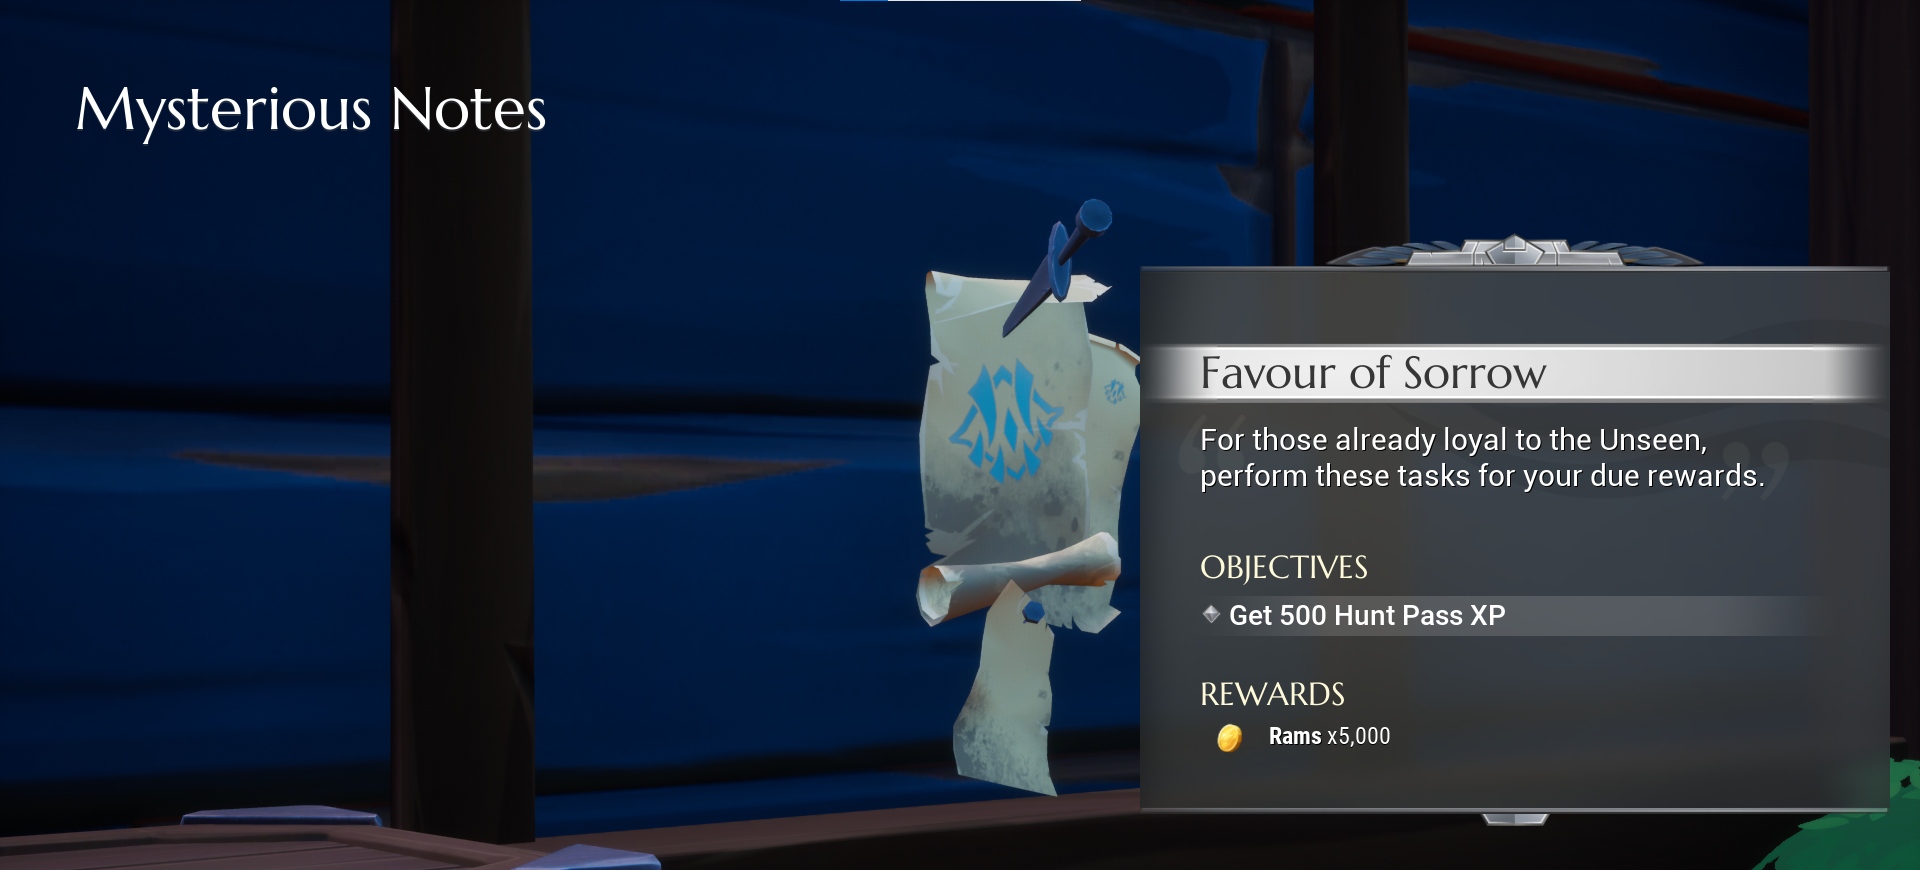
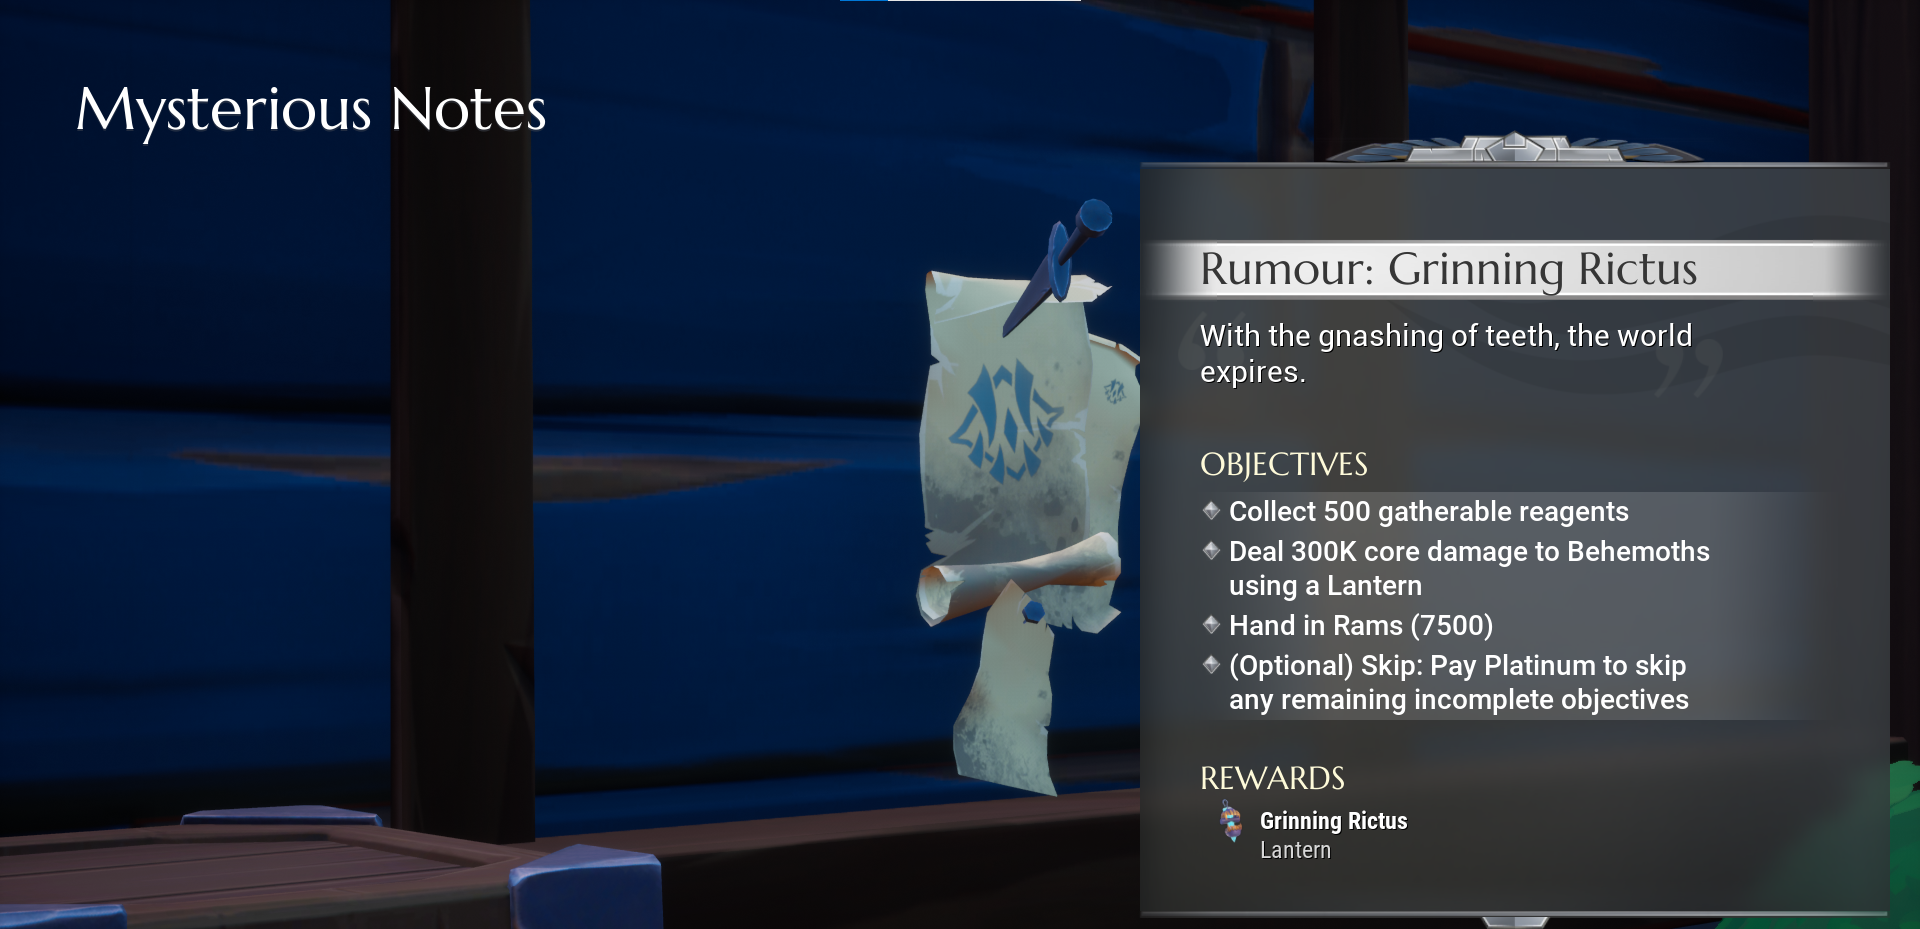
Added all the new quests and boxes

diff --git a/ARGS/DarkHarvest2021.html b/ARGS/DarkHarvest2021.html
@@ -49,8 +49,11 @@
                 <li><a href="#Box2">Box 2</a></li>
                 <li><a href="#Box3">Box 3</a></li>
                 <li><a href="#Box4">Box 4</a></li>
+                <li><a href="#Box5">Box 5</a></li>
             </ul>
             <li><a href="#Extra Rumors">Extra Rumors</a></li>
+            <li><a href="#Week before Dark Harvest">Week before Dark Harvest</a></li>
+            <li><a href="Twitter Messages">Twitter Messages</a></li>
         </ul>
     </div>
 
@@ -153,6 +156,23 @@
             <img src="../ARGS/clues/2021/Rumors/Rumor4MysteriousNoteQuest.png" width="50%">
             <p>This rumor will reward you with the "The Unseen" Emote.</p>
 
+            <h3 id="Box5">Box 5</h3>
+            <p>On the 16th of October we got another tweet by the Unseen Twitter. With a picture attached.</p>
+            <img src="../ARGS/clues/2021/Twitter/Tweet-16102021.png" width="50%">
+            <img src="../ARGS/clues/2021/Twitter/Tweet-16102021Attach.png" width="50%">
+            <blockquote>VЭNTUㄹЭ    БЭYΩNΔ    WㅎЭㄹЭ    YΩUㄹ    CЭΛΛΣ    CΩㅁБИNЭ    ㅏNΔ    YΩU    ΣㅎㅏΛΛ    ФИNΔ    WㅎㅏT    YΩU    ΣЭЭㅋ.</blockquote>
+            <p>When we translate this, it says: <b>Jump if you dare; the gift of the eye is only for those who do not scare.</b><br>
+            This box is found when you jump down from Xeyla's island then you can find the box floating on a rock.</p>
+            <img src="../ARGS/clues/2021/Boxes/LocationOfBox5.png" width="50%">
+            <img src="../ARGS/clues/2021/Boxes/Location5Lore.png" width="50%">
+            <p>The days of the Dark Harvest is coming closer. They are now calling out to us, they
+                want us to "glimpse beyond the veil" so that we can see the truth. It is as they say
+                "time to grow beyond what we have known". They want us to evolve, to help with their cause.
+            </p>
+
+            <h3 id="Box 5 Rumor">Box 5 Rumor</h3>
+            <img src="../ARGS/clues/2021/Rumors/Rumor5MysteriousNoteQuest.png" width="50%">
+            <p>This rumor will reward you with the "The Unseen" Arrival Emote.</p>
         </section>
         <hr>
         <section id="Extra Rumors">
@@ -164,6 +184,51 @@
             <p>Though upon completion these two quests didn't yield any more quests.</p>
         </section>
         <hr>
+        <section id="Week before Dark Harvest">
+            <h3>The Week Before Dark Harvest</h3>
+            <p>The 14th of October, Patch 1.8.0 was dropped and with a picture of the Hunt pass which has some suspisous symbols on them. Apparently these "magic circles"
+                have the unseen letters on them.
+            </p>
+            <img src="../ARGS/clues/2021/Artwork/PatchArtwork.png" width="50%">
+            <blockquote>ΩUㄹ   ΩㄹИΓИNΣ   ΛИЭ.   TㅎЭY   ㅏㄹЭ   NΩT   ΠUㄹЭ.</blockquote>
+            <p>When we translate this, it says: <b>Our origins lie. They are not pure.</b><br>
+            This message is kinda weird. Since they say "Our origins lie". Not sure if they are talking about making a false statement or if it is their orgin lie somewhere.
+            Then they go on to say "They", most likely refering to the Unseen, are not pure, this could mean that they are lying about something.
+            </p>
+            <p>Besides that there was also a new quest.</p>
+            <img src="../ARGS/clues/2021/Quests/AllEyesOnYouQuest.png" width="50%">
+            <div style="display: flex;">
+                <img src="../ARGS/clues/2021/Quests/AllEyesOnYouQuestText1.png" style="width: clamp(20px, 30%, 40%);" >
+                <img src="../ARGS/clues/2021/Quests/AllEyesOnYouQuestText2.png" style="width: clamp(20px, 30%, 40%);" >
+            </div>
+            <p>Upon completing this quest</p>
+            <div style="display: flex;">
+                <img src="../ARGS/clues/2021/Quests/AllEyesOnYouQuestTextEnd1.png" style="width: clamp(20px, 30%, 40%);" >
+                <img src="../ARGS/clues/2021/Quests/AllEyesOnYouQuestTextEnd2.png" style="width: clamp(20px, 30%, 40%);" >
+            </div>
+            <p>You would awaken the Unseen and then you would get the Secret Store, which contains special cosmetics.</p>
+            <img src="../ARGS/clues/2021/Quests/AllEyesOnYouSecretShop.png" width="50%">
+            <p>After this quest you would be given the quest "Gift of the Night"</p>
+            <img src="../ARGS/clues/2021/Quests/GiftOfTheNightQuest.png" width="50%">
+            <div style="display: flex;">
+                <img src="../ARGS/clues/2021/Quests/GiftOfTheNightQuestText1.png" style="width: clamp(20px, 30%, 40%);" >
+                <img src="../ARGS/clues/2021/Quests/GiftOfTheNightQuestText2.png" style="width: clamp(20px, 30%, 40%);" >
+            </div>
+            <p>Upon completing all the rumors, then you would be rewarded with an emoji and a new quest "A Shot In The Dark"</p>
+            <img src="../ARGS/clues/2021/Quests/AShotInTheDarkQuest.png" width="50%">
+            <div style="display: flex;">
+                <img src="../ARGS/clues/2021/Quests/AShotInTheDarkQuestText1.png" style="width: clamp(20px, 30%, 40%);" >
+                <img src="../ARGS/clues/2021/Quests/AShotInTheDarkQuestText2.png" style="width: clamp(20px, 30%, 40%);" >
+            </div>
+            <p>Upon completing this quest</p>
+            <div style="display: flex;">
+                <img src="../ARGS/clues/2021/Quests/AShotInTheDarkQuestTextEnd1.png" style="width: clamp(20px, 30%, 40%);" >
+                <img src="../ARGS/clues/2021/Quests/AShotInTheDarkQuestTextEnd2.png" style="width: clamp(20px, 30%, 40%);" >
+            </div>
+            <p>You would be rewarded with the a title and a Event Pass.</p>
+            <img src="../ARGS/clues/2021/Quests/EventPass.png" width="20%">
+        </section>
+        <hr>
         <section id="Twitter Messages">
             <h3>Twitter Messages</h3>
             <p>Here we have some twitter messages, these were sent throughout the days approaching the Dark Harvest.</p>
@@ -173,7 +238,15 @@
         </section>
     </div>
 
-
+    <div class="credits" id="Credits">
+        <h1>Credits</h1>
+            <div class="creditsflex">
+                <div><a href="https://twitter.com/ItzMrBlox">Blox</a></div>
+                <div>26Nova</div>
+                <div><a href="https://www.twitch.tv/korrupikid">Korrupi Kid</a></div>
+                <div><a href="https://www.reddit.com/u/Vozu_">Roel</a></div>
+            </div>
+    </div>
     <div id="footers" class="footers">
         <div><a href="https://github.com/ItzMrBlox/DauntlessUnseenTranslator"><i class="fab fa-github"></i> Github</a></div>
         <div><a href="https://discord.gg/dauntless"><i class="fab fa-discord"></i> Discord</a></div>

diff --git a/assets/scripts/localStorage.js b/assets/scripts/localStorage.js
@@ -2,7 +2,7 @@
 const v2018 = "19/10/2020"
 const v2019 = "20/07/2020"
 const v2020 = "03/11/2020 19:12"
-const v2021 = "12/10/2021 12:00"
+const v2021 = "16/10/2021 22:00"
 
 
 // Json Object in Local storage

diff --git a/main.css b/main.css
@@ -217,6 +217,7 @@ center {
 .longdiv img {
     display:block;
     margin:auto;
+    margin-bottom: 5px;
 }
 
 .longdiv .candle {
